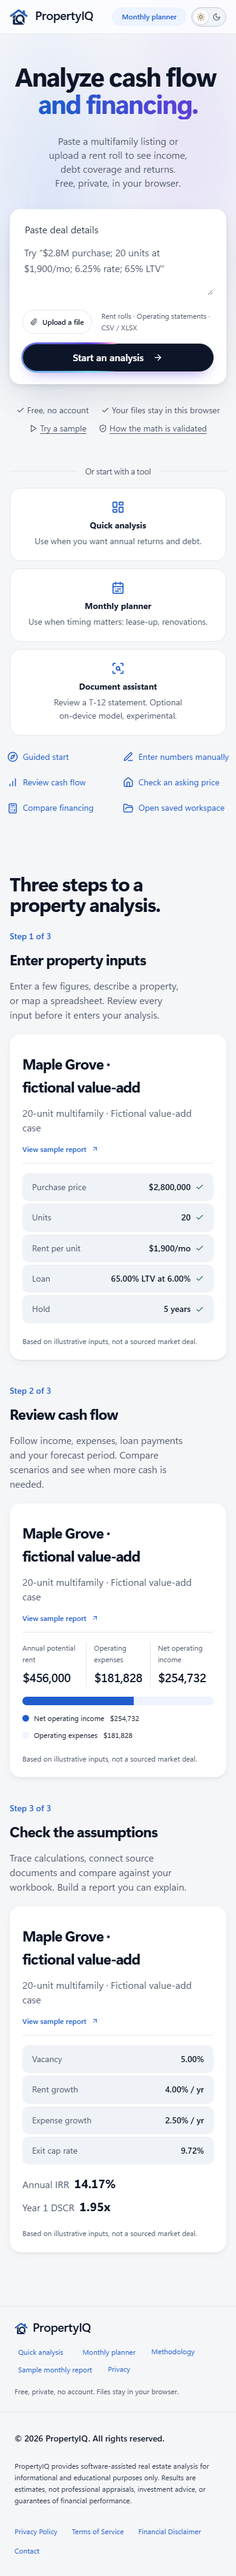
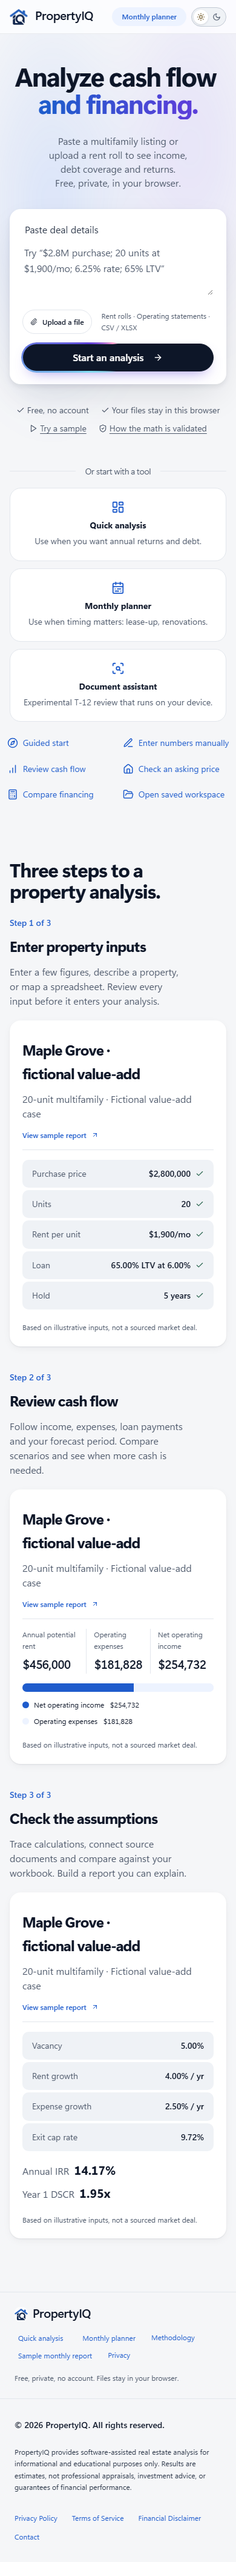
Tool row: plain class instead of :has() for the three-card layout
Keeps the default build's CSS free of :has(), which WebKit re-evaluates during
motion tests; the class is only added in flagged builds.

diff --git a/src/ui/StartPage.tsx b/src/ui/StartPage.tsx
@@ -681,7 +681,13 @@ export default function StartPage({
               </ul>
               <section className="iq-other" aria-labelledby="iq-other-title">
                 <h2 id="iq-other-title">Or start with a tool</h2>
-                <div className="iq-other-modes">
+                <div
+                  className={
+                    documentAssistant
+                      ? "iq-other-modes iq-other-modes-3"
+                      : "iq-other-modes"
+                  }
+                >
                   <button onClick={() => onAnnual()}>
                     <LayoutDashboard size={22} aria-hidden="true" />
                     <strong>Quick analysis</strong>

diff --git a/src/styles.css b/src/styles.css
@@ -6272,11 +6272,11 @@ button.theme-toggle[role="switch"]:hover {
   gap: var(--space-12);
 }
 /* Three tools (the flagged Document assistant card): one centered row of equal cards. */
-.iq-other-modes:has(> :nth-child(3)) {
+.iq-other-modes-3 {
   grid-template-columns: repeat(3, minmax(0, 1fr));
 }
 @media (max-width: 720px) {
-  .iq-other-modes:has(> :nth-child(3)) {
+  .iq-other-modes-3 {
     grid-template-columns: 1fr;
   }
 }
